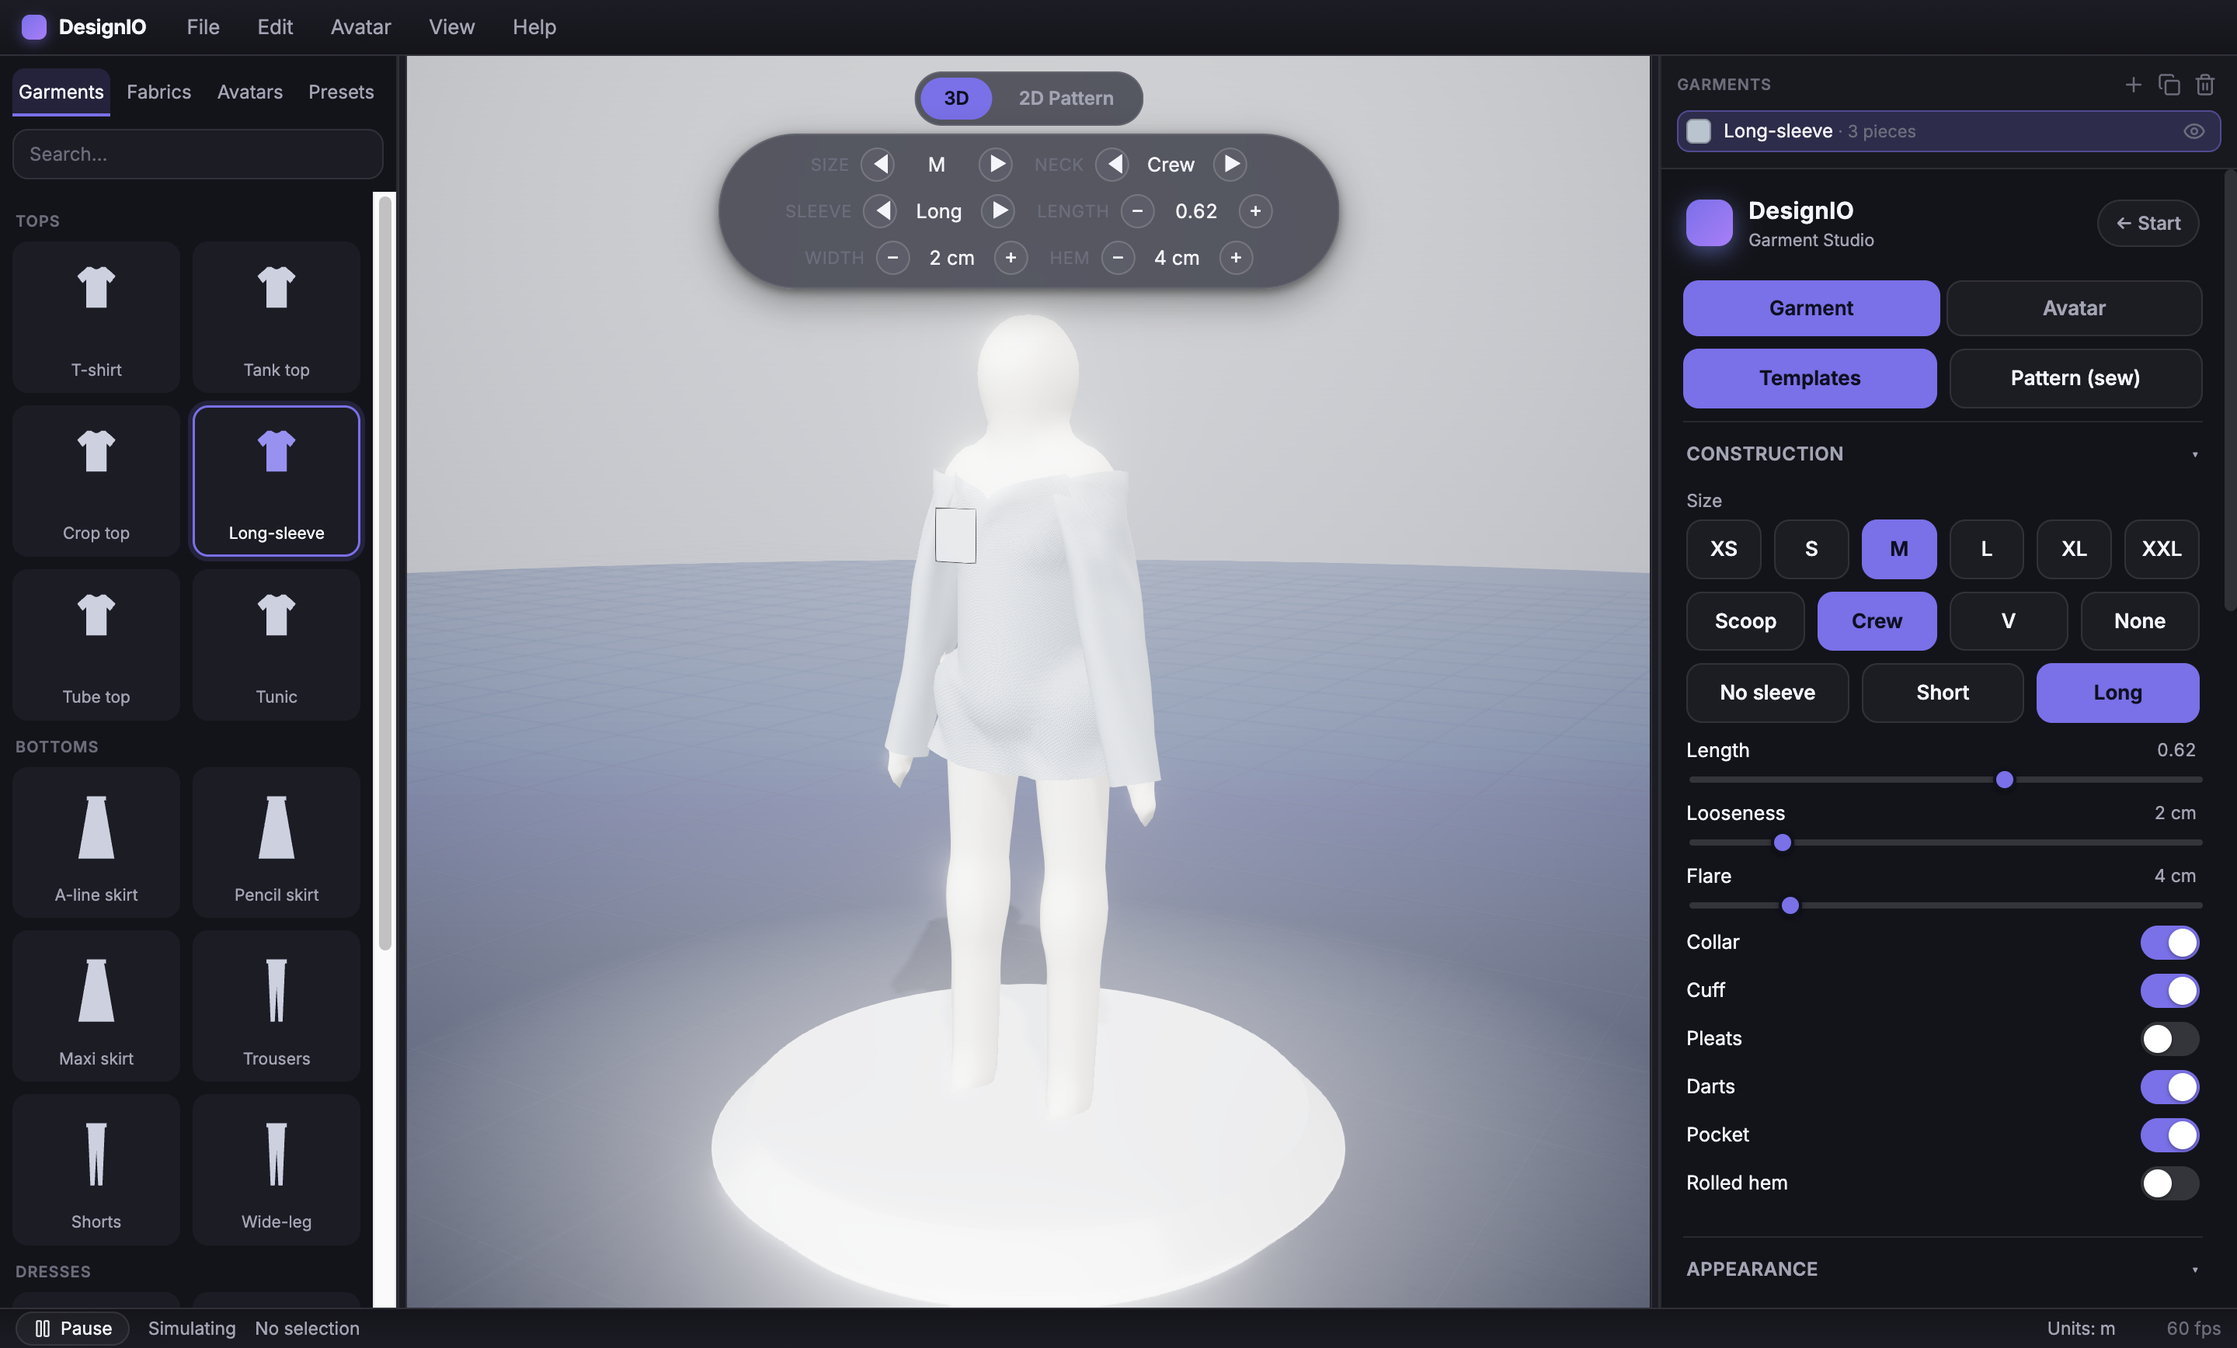
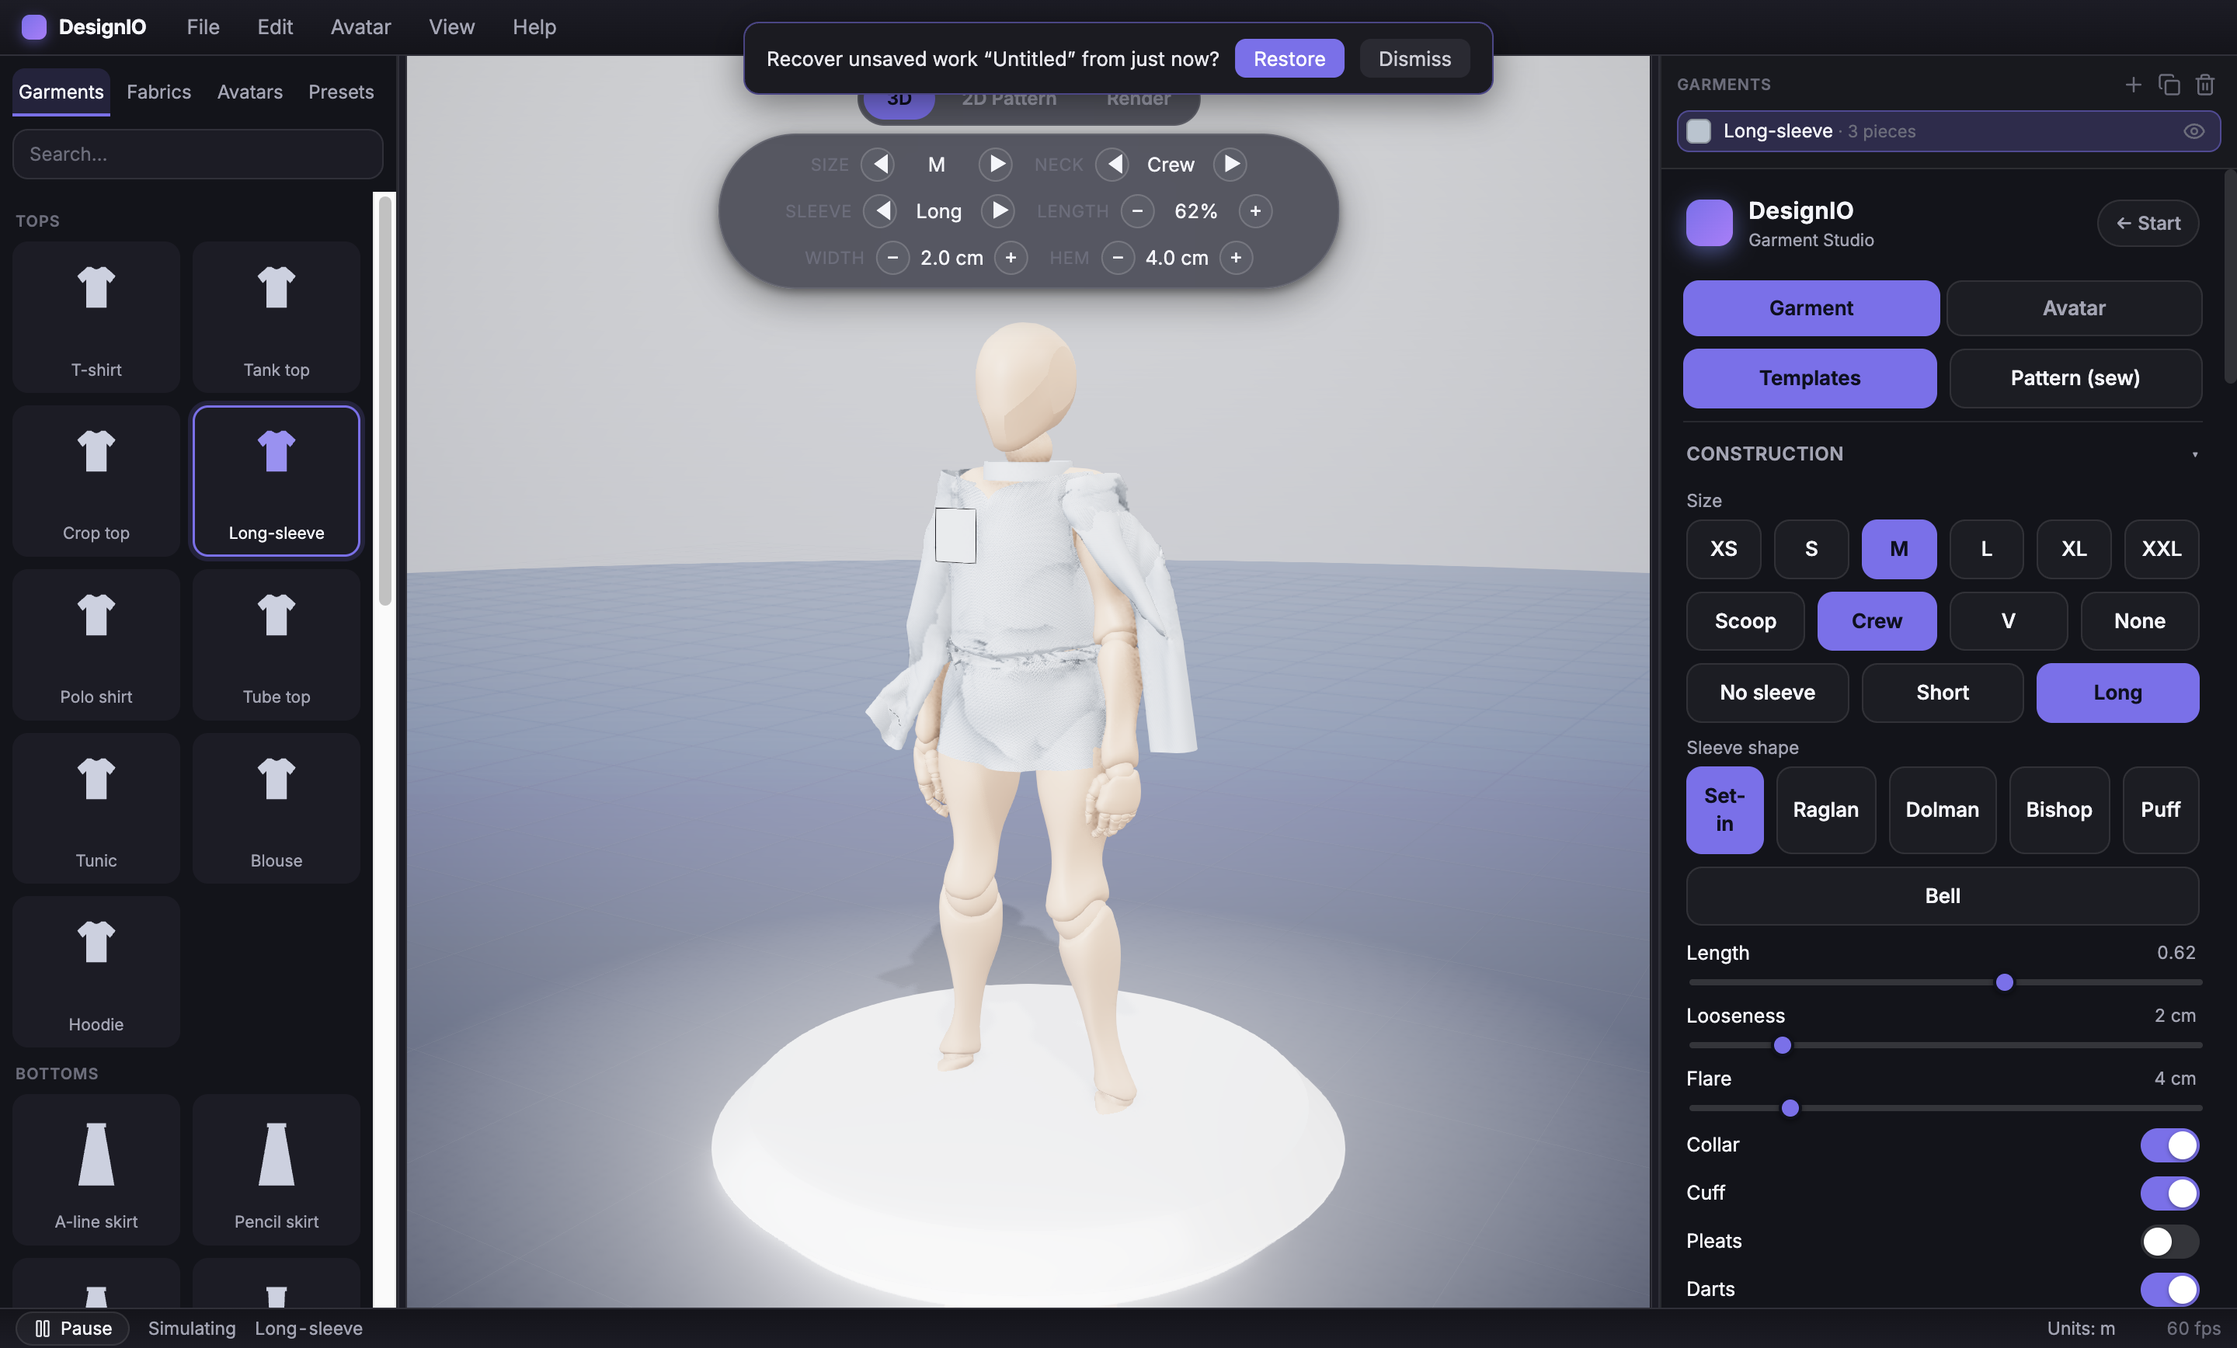
fix: sleeves explode / oversize — rescale shape profiles to the arm
The user reported puff sleeves exploding into torn balloons and long sleeves
clipping/tearing (on a curvy avatar). Root cause: sleeveShapeSpec authored the
per-shape radius profiles in ABSOLUTE metres that don't scale to the body, and
the bulges were far too large:
- puff cap = 0.078 + 0.06 = 0.138 m ≈ 4× a ~0.032 m forearm — a self-intersecting
  ring the solver blew into spiky, torn balloons.
- bishop peak ~0.088 m (~2.75×) → baggy/torn.
The mismatch was worse on non-default bodies, and sleeveShapeSpec only received
the forearm radius so the shoulder cap couldn't scale to the shoulder.

Fix (garments/factory.ts):
- Pass BOTH the shoulder (upper-arm) and hem (forearm) radii into sleeveShapeSpec
  / sleeveSpecs.
- Rewrite every shape as a MULTIPLE of the arm radius (not absolute metres), sized
  to read right and stay stable on any body: puff a soft ~1.9× gather spread over
  the top 45%, bishop a modest mid-sleeve fullness, set-in/raglan snug to the
  shoulder (~1.35–1.7×), dolman a scaled batwing, bell a scaled cuff flare.
- Kept sleeveShapeSpec pure.

Tests: sleeveShape.test.ts updated for the new signature + a guard that each cap
stays a sane multiple of the arm (catches a re-introduced balloon); stability.test.ts
drapes all 6 shapes and asserts finite + bounded (no explosion).

Verified via captures: every shape renders as its shape and stays on the arm —
puff/bishop/set-in/raglan/dolman/bell, on slim + plus bodies. README sleeve
photos (detail, parts) regenerated.
[…]

diff --git a/src/renderer/garments/factory.ts b/src/renderer/garments/factory.ts
@@ -122,28 +122,41 @@ function legTubeSpecs(p: GarmentParams, m: Measurements): TubeSpec[] {
  */
 export function sleeveShapeSpec(
   shape: SleeveShape,
-  armR: number,
+  shoulderR: number, // the upper-arm radius (the sleeve cap sits over the shoulder)
+  hemR: number, // the arm radius at the hem (forearm for long, upper-arm for short)
   cuff: boolean
 ): { radiusStart: number; radiusEnd: number; profile?: (t: number) => number } {
-  const base = armR + (cuff ? 0.004 : 0.02) // set-in cuff/hem radius
+  // Everything is expressed as a MULTIPLE of the arm radius (not absolute metres) so a sleeve
+  // reads the same — and stays stable — on any body size. Bulges are kept modest so the puff
+  // gather can't balloon into a self-intersecting ring that the solver blows up.
+  const base = hemR + (cuff ? 0.004 : 0.02) // cuff / hem radius: a little ease over the arm
   const lerp = (s: number, e: number, t: number): number => s + (e - s) * t
   switch (shape) {
     case 'raglan': // seam runs to the neck → a wider top over the shoulder
-      return { radiusStart: 0.09, radiusEnd: base }
-    case 'dolman': // batwing — very wide, deep armhole tapering to the wrist
-      return { radiusStart: 0.15, radiusEnd: base, profile: (t) => 0.15 + (base - 0.15) * Math.pow(t, 1.5) }
-    case 'bishop': { // full sleeve, gathered into a tight cuff
-      const end = armR + 0.004
-      return { radiusStart: 0.072, radiusEnd: end, profile: (t) => lerp(0.072, end, t) + 0.05 * Math.sin(Math.PI * Math.min(t / 0.94, 1)) }
+      return { radiusStart: shoulderR * 1.7, radiusEnd: base }
+    case 'dolman': { // batwing — very wide, deep armhole tapering to the wrist
+      const start = shoulderR * 3.4
+      return { radiusStart: start, radiusEnd: base, profile: (t) => start + (base - start) * Math.pow(t, 1.5) }
     }
-    case 'puff': // gathered puff at the shoulder, normal below
-      return { radiusStart: 0.078, radiusEnd: base, profile: (t) => lerp(0.078, base, t) + 0.06 * Math.pow(Math.max(0, 1 - t / 0.34), 1.6) }
+    case 'bishop': { // full sleeve, gathered into a tight cuff
+      const end = hemR + 0.004
+      const start = shoulderR * 1.4
+      const bulge = shoulderR * 0.7 // a modest mid-sleeve gather (was a fixed 0.05 m → too full)
+      return { radiusStart: start, radiusEnd: end, profile: (t) => lerp(start, end, t) + bulge * Math.sin(Math.PI * Math.min(t / 0.94, 1)) }
+    }
+    case 'puff': { // gathered puff at the shoulder, normal below
+      const start = shoulderR * 1.3
+      const bulge = shoulderR * 0.6 // cap ≈ 1.9× the arm — a soft puff, not the old ~4× balloon
+      // spread the gather over the top ~45% of the sleeve so the cap reads round, not a sharp peak
+      return { radiusStart: start, radiusEnd: base, profile: (t) => lerp(start, base, t) + bulge * Math.pow(Math.max(0, 1 - t / 0.45), 1.5) }
+    }
     case 'bell': { // narrow upper arm, flaring out at the cuff
-      const end = armR + 0.085
-      return { radiusStart: 0.062, radiusEnd: end, profile: (t) => 0.062 + (end - 0.062) * Math.pow(t, 2.5) }
+      const start = shoulderR * 1.15
+      const end = hemR + shoulderR * 1.7
+      return { radiusStart: start, radiusEnd: end, profile: (t) => start + (end - start) * Math.pow(t, 2.5) }
     }
     default: // set-in — hugs the shoulder/arm, tapers to the hem
-      return { radiusStart: 0.072, radiusEnd: base }
+      return { radiusStart: shoulderR * 1.35, radiusEnd: base }
   }
 }
 
@@ -160,7 +173,7 @@ function sleeveSpecs(long: boolean, colliders: Capsule[], cuff = false, shape: S
     const fullLen = long || shape === 'dolman' || shape === 'bishop' || shape === 'bell'
     const b = fullLen ? fore.b.clone() : upper.a.clone().lerp(upper.b, 0.62)
     const len = a.distanceTo(b)
-    const { radiusStart, radiusEnd, profile } = sleeveShapeSpec(shape, fullLen ? fore.radius : upper.radius, cuff)
+    const { radiusStart, radiusEnd, profile } = sleeveShapeSpec(shape, upper.radius, fullLen ? fore.radius : upper.radius, cuff)
     const t = simTube(26, len, 0.03, simScale)
     return { rings: t.rings, radial: t.radial, a, b, radiusStart, radiusEnd, profile }
   })

diff --git a/tests/sleeveShape.test.ts b/tests/sleeveShape.test.ts
@@ -2,44 +2,51 @@ import { describe, it, expect } from 'vitest'
 import { sleeveShapeSpec } from '../src/renderer/garments/factory'
 import { SLEEVE_SHAPES } from '../src/renderer/garment/templates'
 
-const armR = 0.045
+// Profiles are multiples of the arm radius (not absolute metres) so they scale to any body.
+const shoulderR = 0.045 // upper-arm radius (the cap)
+const hemR = 0.035 // forearm radius (the hem)
 
 describe('sleeveShapeSpec (the sleeve library)', () => {
-  it('set-in is a plain taper (no profile)', () => {
-    const s = sleeveShapeSpec('set-in', armR, false)
+  it('set-in is a plain taper (no profile), sized off the shoulder + hem', () => {
+    const s = sleeveShapeSpec('set-in', shoulderR, hemR, false)
     expect(s.profile).toBeUndefined()
-    expect(s.radiusStart).toBeCloseTo(0.072, 5)
-    expect(s.radiusEnd).toBeCloseTo(armR + 0.02, 5)
+    expect(s.radiusStart).toBeCloseTo(shoulderR * 1.35, 5)
+    expect(s.radiusEnd).toBeCloseTo(hemR + 0.02, 5)
   })
 
   it('bell flares out at the cuff (end wider than start; profile grows toward the wrist)', () => {
-    const s = sleeveShapeSpec('bell', armR, false)
+    const s = sleeveShapeSpec('bell', shoulderR, hemR, false)
     expect(s.radiusEnd).toBeGreaterThan(s.radiusStart)
     expect(s.profile!(1)).toBeGreaterThan(s.profile!(0.3)) // flares late
   })
 
   it('bishop is full through the middle then gathers into a tight cuff', () => {
-    const s = sleeveShapeSpec('bishop', armR, false)
-    expect(s.radiusEnd).toBeLessThan(armR + 0.02) // gathered cuff, tighter than set-in
+    const s = sleeveShapeSpec('bishop', shoulderR, hemR, false)
+    expect(s.radiusEnd).toBeLessThan(hemR + 0.02) // gathered cuff, tighter than set-in
     expect(s.profile!(0.5)).toBeGreaterThan(s.profile!(0)) // fuller in the middle
     expect(s.profile!(0.5)).toBeGreaterThan(s.profile!(1))
   })
 
   it('puff gathers at the shoulder (widest near the top)', () => {
-    const s = sleeveShapeSpec('puff', armR, false)
+    const s = sleeveShapeSpec('puff', shoulderR, hemR, false)
     expect(s.profile!(0)).toBeGreaterThan(s.profile!(0.6))
   })
 
   it('dolman is a very wide batwing at the armhole', () => {
-    expect(sleeveShapeSpec('dolman', armR, false).radiusStart).toBeGreaterThan(0.13)
+    expect(sleeveShapeSpec('dolman', shoulderR, hemR, false).radiusStart).toBeGreaterThan(shoulderR * 3)
   })
 
-  it('every shape returns sane, positive radii', () => {
+  it('every shape stays a sane multiple of the arm (no oversized balloon that the solver blows up)', () => {
+    // The old bug: puff's cap was a fixed 0.138 m ≈ 4× the arm → a self-intersecting ring.
+    // Every shape's widest point must stay a modest multiple of the shoulder radius.
     for (const shape of SLEEVE_SHAPES) {
-      const s = sleeveShapeSpec(shape, armR, false)
+      const s = sleeveShapeSpec(shape, shoulderR, hemR, false)
+      const widest = Math.max(s.radiusStart, s.radiusEnd, ...(s.profile ? [0, 0.25, 0.5, 0.75, 1].map(s.profile) : []))
       expect(s.radiusStart).toBeGreaterThan(0)
       expect(s.radiusEnd).toBeGreaterThan(0)
-      if (s.profile) for (const t of [0, 0.25, 0.5, 0.75, 1]) expect(s.profile(t)).toBeGreaterThan(0)
+      // dolman (batwing) + bell (flared cuff) are wide by design; the arm-hugging shapes stay ≤ ~2.4×.
+      const cap = shape === 'dolman' || shape === 'bell' ? 4 : 2.4
+      expect(widest, `${shape} is too wide (${(widest / shoulderR).toFixed(2)}× the arm)`).toBeLessThan(shoulderR * cap)
     }
   })
 })

diff --git a/tests/stability.test.ts b/tests/stability.test.ts
@@ -2,10 +2,11 @@ import { describe, it, expect } from 'vitest'
 import { buildMannequin } from '../src/renderer/avatar/Mannequin'
 import { DEFAULT_PARAMS, type GarmentType } from '../src/renderer/garment/templates'
 import { getGarment, GARMENT_IDS } from '../src/renderer/garments/registry'
-import { garmentTubeSpecs } from '../src/renderer/garments/factory'
-import { buildTubeGarment } from '../src/renderer/cloth/Garment'
+import { garmentTubeSpecs, garmentSleeveSpecs } from '../src/renderer/garments/factory'
+import { buildTubeGarment, buildAxisTube } from '../src/renderer/cloth/Garment'
 import { XPBDSolver } from '../src/renderer/cloth/XPBDSolver'
 import { FABRICS } from '../src/renderer/cloth/fabricPresets'
+import { SLEEVE_SHAPES, type SleeveShape } from '../src/renderer/garment/templates'
 
 const mann = buildMannequin()
 
@@ -14,6 +15,22 @@ function drapeMaxAbs(id: GarmentType, steps = 140): number {
   const spec = garmentTubeSpecs(getGarment(id), { ...DEFAULT_PARAMS, ...getGarment(id).defaults }, mann.measurements)[0]
   if (!spec) return 0
   const build = buildTubeGarment(spec)
+  const solver = new XPBDSolver(build.nx, build.ny, build.positions, FABRICS.cotton, { pinned: build.pinnedTop, wrapX: true })
+  solver.colliders = mann.colliders
+  solver.bodyCollider = mann.bodyCollider
+  for (let i = 0; i < steps; i++) solver.step(1 / 60)
+  let mx = 0
+  for (let k = 0; k < build.positions.length; k++) mx = Math.max(mx, Math.abs(build.positions[k]))
+  return mx
+}
+
+/** Drape a sleeve (any shape) over the arm capsules + mesh collider and settle it. */
+function drapeSleeveMaxAbs(shape: SleeveShape, steps = 140): number {
+  const def = getGarment('long-sleeve')
+  const p = { ...DEFAULT_PARAMS, ...def.defaults, sleeve: 'long' as const, sleeveShape: shape }
+  const spec = garmentSleeveSpecs(def, p, mann.colliders)[0]
+  if (!spec) return 0
+  const build = buildAxisTube(spec)
   const solver = new XPBDSolver(build.nx, build.ny, build.positions, FABRICS.cotton, { pinned: build.pinnedTop, wrapX: true })
   solver.colliders = mann.colliders
   solver.bodyCollider = mann.bodyCollider
@@ -38,6 +55,16 @@ describe('cloth stability (never flies away / explodes)', () => {
       const mx = drapeMaxAbs(id)
       expect(Number.isFinite(mx), `${id} went non-finite`).toBe(true)
       expect(mx, `${id} diverged to ${mx}`).toBeLessThan(3)
+    }
+  }, 20000)
+
+  // Every sleeve shape must drape bounded — the puff used to build a ~4× oversized cap ring
+  // (a fixed 0.138 m) that self-intersected and exploded into torn balloons.
+  it('every sleeve shape drapes finite + bounded (no exploding puff)', () => {
+    for (const shape of SLEEVE_SHAPES) {
+      const mx = drapeSleeveMaxAbs(shape)
+      expect(Number.isFinite(mx), `${shape} sleeve went non-finite`).toBe(true)
+      expect(mx, `${shape} sleeve diverged to ${mx}`).toBeLessThan(3)
     }
   }, 20000)
 })

diff --git a/KANBAN.md b/KANBAN.md
@@ -198,6 +198,7 @@ Legend: ✅ done · 🔄 in progress · 📋 backlog
 - [x] **Expose `headR`/`neckR` in `Measurements`** — added to the interface + `measurementsFor`/`applyBody` (scale with build), so `headTubeToSpec` + headwear fit read them — PR #184
 - [x] **Pin headwear to the head anchor** — `bindPinsToBody` routes a crown headwear piece (a beanie/hat) to the **head** anchor via a pure `pieceAnchor(name,…)` (head → head · sleeve → arm · else → nearer of torso/hip), so it turns/nods with the head; shipped a cloth-sim **beanie** catalog garment (crown `headTube`) that rides the head; `pieceAnchor` unit-tested + a headless drape-stability check — PR #185
 - [ ] **Snug-knit collision tuning** — a tighter `bodySkin`/offset for knits so a beanie hugs the crown without hovering
+- [x] **Fix exploding / oversized sleeves** — the sleeve-shape radius profiles (`sleeveShapeSpec`) were authored in **absolute metres that don't scale to the body**, and the **puff** cap was `0.078 + 0.06 = 0.138 m` ≈ **4× the arm** — a self-intersecting ring the solver blew into torn, spiky balloons (bishop was ~2.75× → baggy/torn); worse on non-default bodies. Rewrote every shape as **multiples of the arm radius** (passing both the shoulder + forearm radii): puff is now a soft ~1.9× gather, bishop a modest mid-sleeve fullness, set-in/raglan snug to the shoulder, dolman/bell wide-by-design but scaled. Every sleeve now reads as its shape and **stays on the arm without exploding**, on slim + plus/curvy bodies, static + animated. Unit test guards each cap to a sane multiple (catches a re-introduced balloon) + a headless drape-stability test proves all 6 shapes settle finite/bounded; README sleeve photos refreshed
 - [x] **Garment correctness pass** — a grounded visual audit of all 31 garments (offscreen render + inspect) + a cloth-physics code audit. Result: 26/31 already correct and the solver/collision/anchor math is sound (verified & rejected two false "bugs" — the aero-drag term and the jumpsuit `hemDrop`). Fixes: the **beanie crown** (below), the **jumpsuit** torso now overlaps the leg tops so the one-piece reads continuous (no bare crotch gap; `hemDrop 0.52→0.58`), and `ClothWorld`'s capsule broadphase rests cloth a `bodySkin` off the body (was `>= cap.radius`, now `+ bodySkin` — matches its own `solveBody` + `XPBDSolver`, so sewn panels don't rest on the bare surface). The **snood + scarf were confirmed already correct** (only looked "invisible" in oat-beige-on-beige), and the **slip-dress** is fine (crepe is just pale grey — renders solid in satin). README jumpsuit photo refreshed
 - [x] **Fix the cloth beanie crown** — the beanie's `headTube` was an **open** flared cone (`topScale 0.38` → a hole at the crown, `botScale 1.3` → flared band) so the head dome poked through the top and the fabric sat as a low band with the crown bare. Re-proportioned to a gathered-closed crown that domes over the head (`topScale 0.13`, `botScale 1.28`, drop `0.26–0.32`): it now caps the crown, covers down the head, and stays put when the head turns/nods. A grounded visual audit confirmed the **snood + scarf were already correct** (they only looked "invisible" in oat-beige-on-beige). Guard test added (crown radius ≪ bottom, catches a re-opened cone); README photo refreshed — PR #202-ish
 - [x] **Cloth-sim draping scarf** — a flat **open** knit panel (new `scarfPanel` piece → `buildScarf`/`fillScarf`, solved with `wrapX: false`) wrapped once around the neck: the collar is pinned as a stable band that follows the body, the two front tails hang + drape under gravity clear of the chest; a robust width frame (vertical on the collar → horizontal on the tails) so it can't collapse; `wrapX` threaded through `SimPiece`/`Piece`/solver; `fillScarf`/`buildScarf` + a headless drape-stability check unit-tested — PR #186
